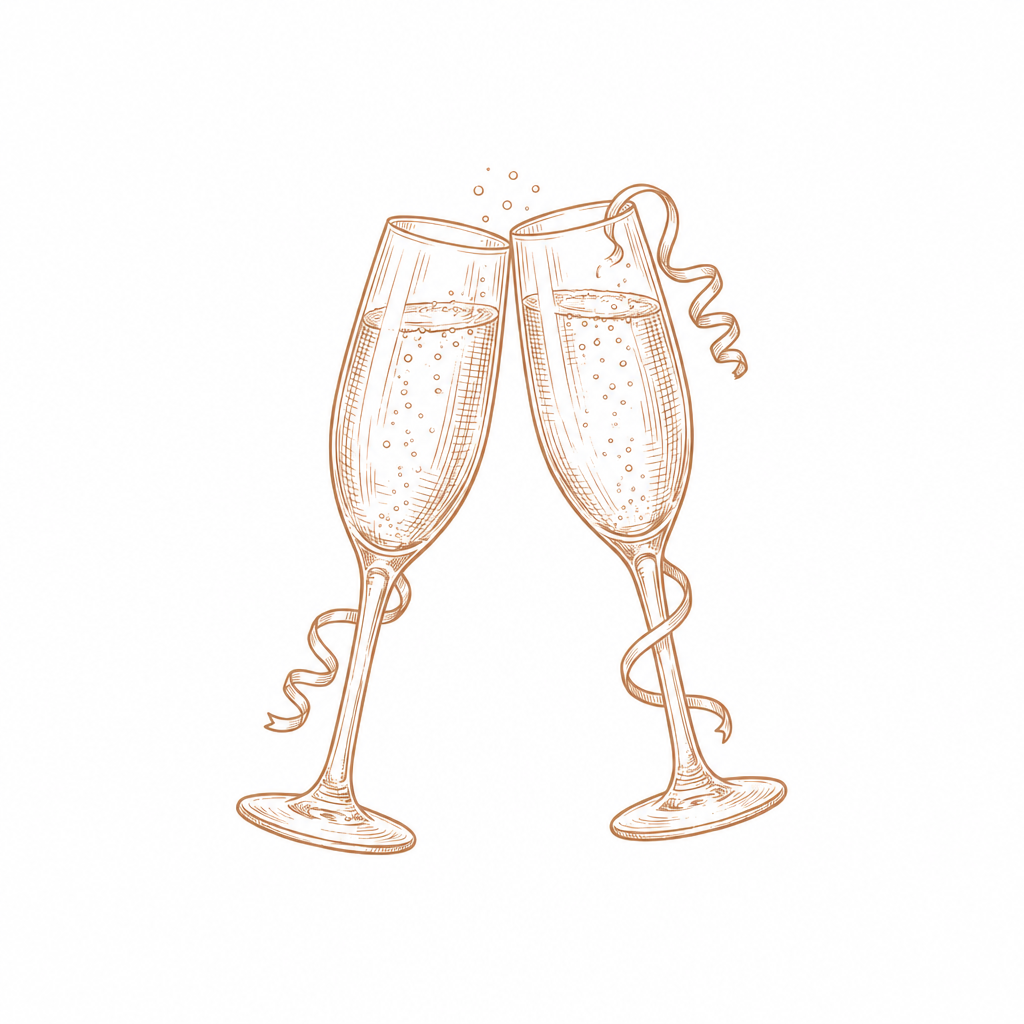
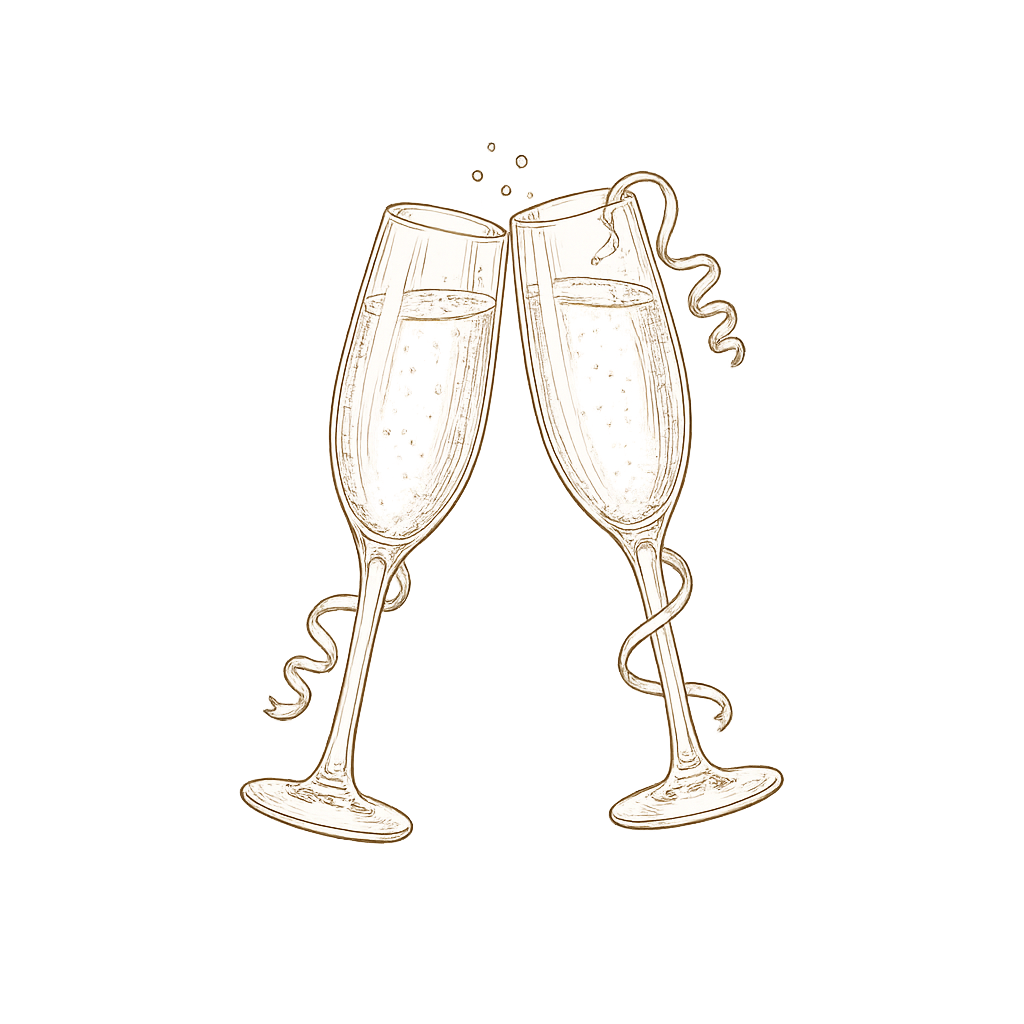
refactor wedding 1

Changed region(s): [[0.2188, 0.1562, 0.7812, 0.8438]]

diff --git a/wedding/src/App.css b/wedding/src/App.css
@@ -17,15 +17,11 @@
 }
 
 .hero__subtitle {
-  font-size: 12px;
-
-  letter-spacing: 4px;
-
+  color: #b68b6a;
   text-transform: uppercase;
-
-  margin-bottom: 20px;
-
-  opacity: 0.7;
+  letter-spacing: 3px;
+  font-size: 14px;
+  margin-bottom: 16px;
 }
 
 .hero__title {
@@ -219,7 +215,7 @@
 
   margin: 0 auto;
 
-  background: #fcfaf6;
+  background: #f5f3f0;
 
   border-radius: 32px;
 
@@ -371,9 +367,13 @@
 }
 
 .footer__names {
-  font-size: 48px;
+  font-size: clamp(3rem, 8vw, 5rem);
 
   font-family: "Great Vibes", cursive;
+  font-weight: 400;
+
+  letter-spacing: 1px;
+  line-height: 1.1;
 
   color: #b68b6a;
 }
@@ -499,6 +499,7 @@
   display: flex;
   align-items: center;
   justify-content: center;
+  background: #f7f4f1;
 }
 
 .timeline__icon img {

diff --git a/wedding/src/App.tsx b/wedding/src/App.tsx
@@ -5,7 +5,7 @@ import WeddingCalendar from "./components/WeddingCalendar";
 import Footer from "./components/Footer";
 import AnimateOnScroll from "./components/AnimateOnScroll";
 import Timeline from "./components/Timeline";
-import hallImage from "./assets/ekaterininsky-hall.jpeg";
+import hallImage from "./assets/ekaterininsky-hall.png";
 import "./App.css";
 
 function App() {

diff --git a/wedding/src/components/Footer.tsx b/wedding/src/components/Footer.tsx
@@ -8,7 +8,7 @@ function Footer() {
       </p>
 
       <p className="footer__names">
-        Саша и Настя
+        Саша & Настя
       </p>
     </section>
   );

diff --git a/wedding/src/index.css b/wedding/src/index.css
@@ -7,7 +7,7 @@
 }
 
 body {
-  background: #f8f4ef;
+  background: #f5f3f0;
   color: #3a312c;
   font-family: "Cormorant Garamond", serif;
   padding: 24px;
